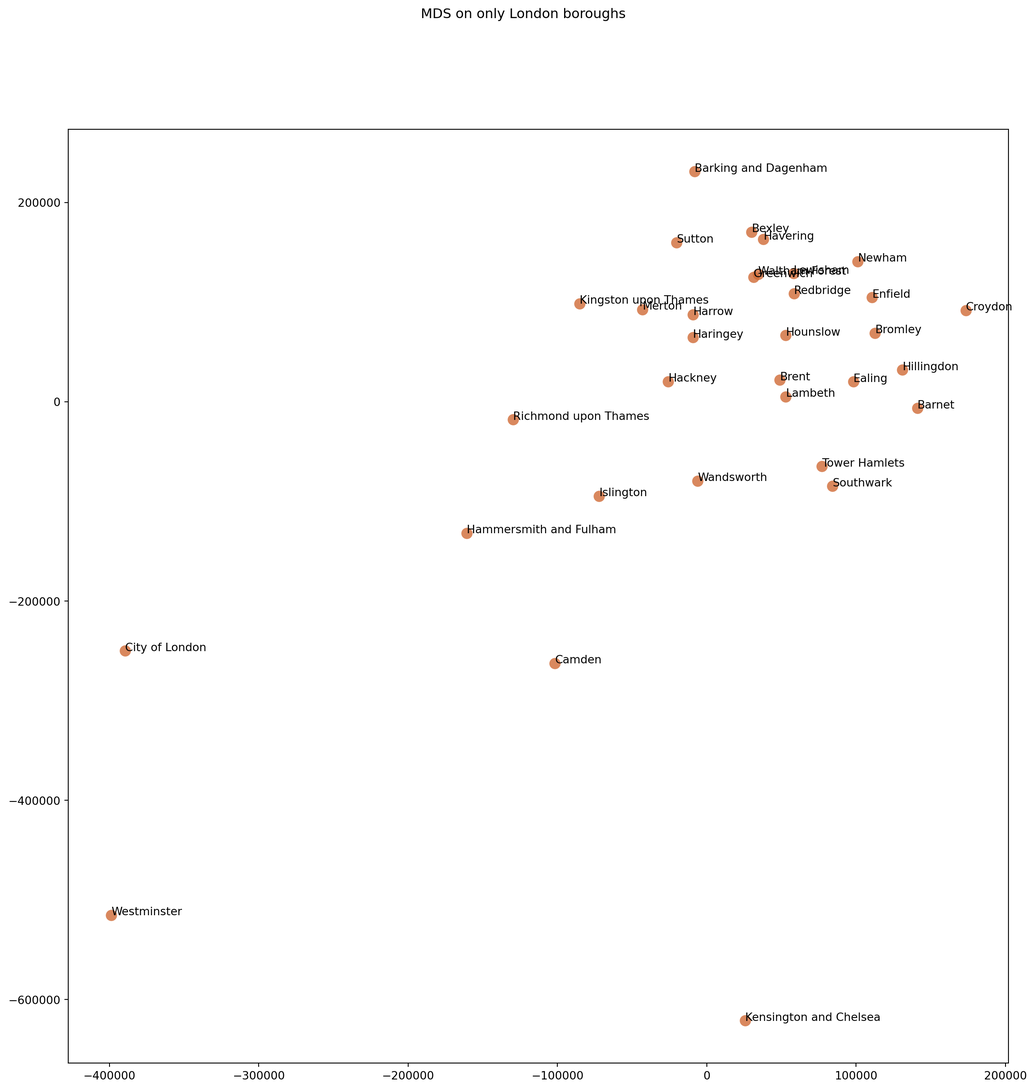
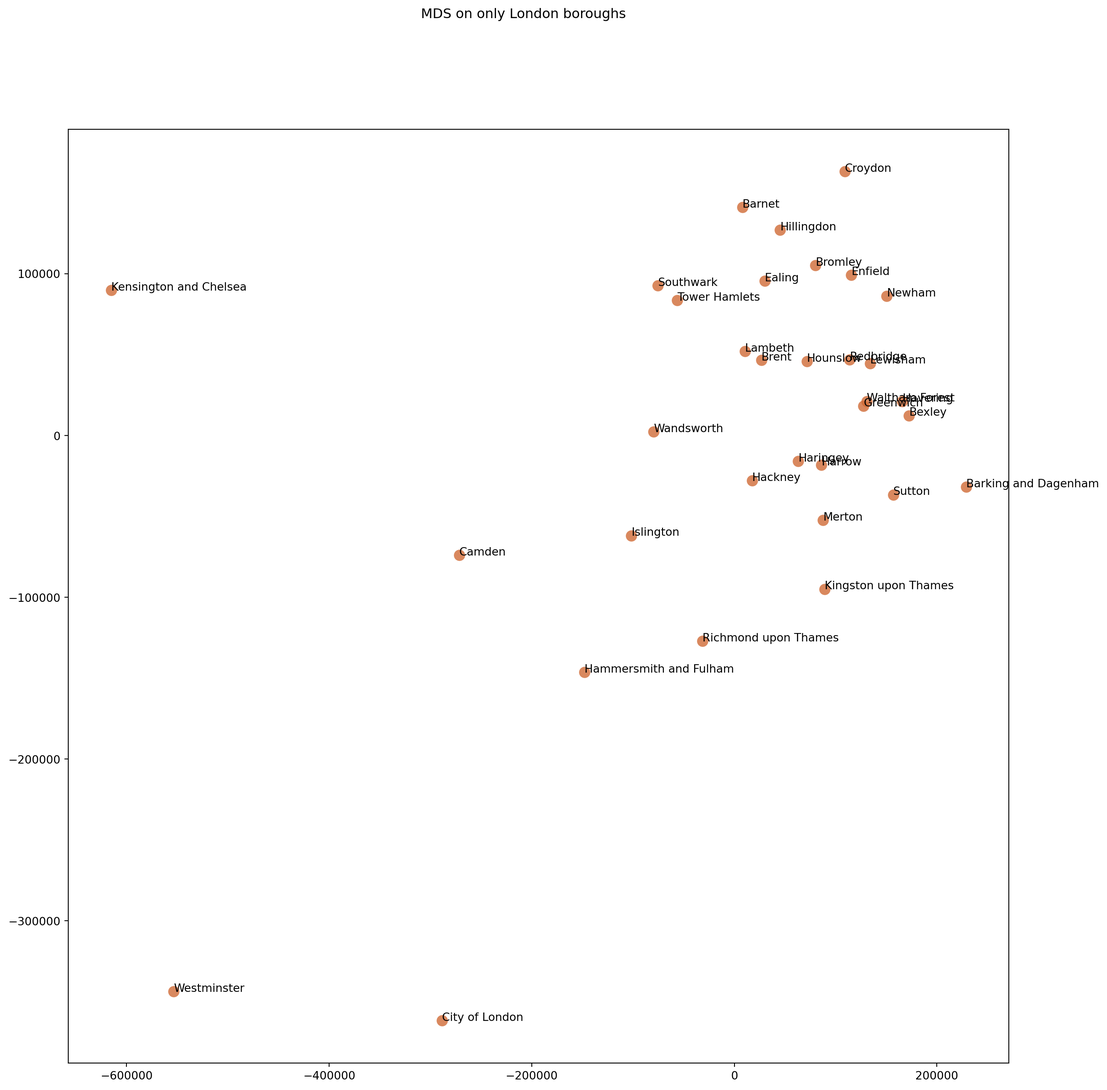
Built site for gh-pages

diff --git a/content/labs/Lab_5/IM939_Lab_5_1.html b/content/labs/Lab_5/IM939_Lab_5_1.html
@@ -54,7 +54,26 @@ div.sourceCode
 @media screen {
 pre > code.sourceCode > span > a:first-child::before { text-decoration: underline; }
 }
-</style>
+/* CSS for citations */
+div.csl-bib-body { }
+div.csl-entry {
+  clear: both;
+}
+.hanging-indent div.csl-entry {
+  margin-left:2em;
+  text-indent:-2em;
+}
+div.csl-left-margin {
+  min-width:2em;
+  float:left;
+}
+div.csl-right-inline {
+  margin-left:2em;
+  padding-left:1em;
+}
+div.csl-indent {
+  margin-left: 2em;
+}</style>
 
 
 <script src="../../../site_libs/quarto-nav/quarto-nav.js"></script>
@@ -545,16 +564,13 @@ pre > code.sourceCode > span > a:first-child::before { text-decoration: underlin
     <h2 id="toc-title">Table of contents</h2>
    
   <ul>
-  <li><a href="#it-is-now-your-turn" id="toc-it-is-now-your-turn" class="nav-link active" data-scroll-target="#it-is-now-your-turn"><span class="header-section-number">22</span> It is now your turn!</a>
-  <ul class="collapse">
-  <li><a href="#first-task" id="toc-first-task" class="nav-link" data-scroll-target="#first-task"><span class="header-section-number">22.1</span> First task:</a></li>
-  <li><a href="#second-task" id="toc-second-task" class="nav-link" data-scroll-target="#second-task"><span class="header-section-number">22.2</span> Second task:</a></li>
-  </ul></li>
+  <li><a href="#data-exploration-and-wrangling" id="toc-data-exploration-and-wrangling" class="nav-link active" data-scroll-target="#data-exploration-and-wrangling"><span class="header-section-number">21.1</span> Data exploration and wrangling</a></li>
+  <li><a href="#dimension-reduction" id="toc-dimension-reduction" class="nav-link" data-scroll-target="#dimension-reduction"><span class="header-section-number">21.2</span> Dimension reduction</a></li>
   </ul>
 <div class="toc-actions"><div><i class="bi bi-github"></i></div><div class="action-links"><p><a href="https://github.dev/WarwickCIM/IM939_handbook/blob/main/content/labs/Lab_5/IM939_Lab_5_1.ipynb" class="toc-action">Edit this page</a></p><p><a href="https://github.com/WarwickCIM/IM939_handbook/issues/new" class="toc-action">Report an issue</a></p></div></div></nav>
     </div>
 <!-- main -->
-<main class="content" id="quarto-document-content">
+<main class="content page-columns page-full" id="quarto-document-content">
 
 <header id="title-block-header" class="quarto-title-block default">
 <div class="quarto-title">
@@ -574,14 +590,21 @@ pre > code.sourceCode > span > a:first-child::before { text-decoration: underlin
 </header>
 
 <p>In this notebook, we will look at the London Borough data that we already encountered when we worked with the London Borough profiles and the Borough Cards that we utilised in the session.</p>
-<p>You can have a look at the data through this online tool provided by GLA: https://data.london.gov.uk/london-area-profiles/</p>
+<p>You can have a look at the data through this online tool provided by GLA: <a href="https://data.london.gov.uk/london-area-profiles/" class="uri">https://data.london.gov.uk/london-area-profiles/</a></p>
 <p>However, unlike the data that we explored during the session, this data set has several features (i.e., columns or variables), 76 of them to be precise.</p>
-<p>What we would like to do in this notebook is to make use of a dimension reduction algorithm – Multidimensial Scaling – to help us create various different “spaces”. Each of these space will be a different way of “seeing this data” and if we adopt the language from Scott Page, they will have different “attentions”.</p>
+<p>What we would like to do in this notebook is to make use of a dimension reduction algorithm – Multidimensional Scaling – to help us create various different “spaces”. Each of these space will be a different way of “seeing this data” and if we adopt the language from Scott Page <span class="citation" data-cites="pageWhyManyModelThinkers2018">(<a href="../../references.html#ref-pageWhyManyModelThinkers2018" role="doc-biblioref">2018</a>)</span>, they will have different “attentions”.</p>
 <p>What the following exercise will do is to walk you through the variables of this data set through a few visualisations. It will then create a few different projections and will give them some names. What we expect you to do is to create your own projections and try to interpret them.</p>
 <p>If you want to be reminded of what MDS is, you can have a look at the slides from last week. In a super tiny nutshell, MDS tries to create a space where “real” distances in the data are preserved as much as possible while “projecting” the data elements on a lower dimensional space. For instance, the following is from the slide deck:</p>
-<p><img src="figs/mds.png" alt="An MDS plot of cities." style="width: 800px;"></p>
+<div class="quarto-figure quarto-figure-center">
+<figure class="figure">
+<p><img src="figs/mds.png" class="img-fluid figure-img" width="800"></p>
+<figcaption class="figure-caption">An MDS plot of cities.</figcaption>
+</figure>
+</div>
 <p>What we see here are a few cities that would normally “exist” in our 3-dimensional world and the distances between them would normally be on this spherical coordinate system. But we create here is a 2D map and the distances between cities are preserved as much as possible. Near cities in the world are closer, and the further ones are further but not as accurate as it is in the world. The dimensions here carry no real meaning it is the distances that will “tell a story” (if there is one).</p>
 <p>OK, let’s get on with the data now.</p>
+<section id="data-exploration-and-wrangling" class="level2 page-columns page-full" data-number="21.1">
+<h2 data-number="21.1" class="anchored" data-anchor-id="data-exploration-and-wrangling"><span class="header-section-number">21.1</span> Data exploration and wrangling</h2>
 <div class="cell" data-execution_count="1">
 <div class="sourceCode cell-code" id="cb1"><pre class="sourceCode python code-with-copy"><code class="sourceCode python"><span id="cb1-1"><a href="#cb1-1" aria-hidden="true" tabindex="-1"></a><span class="im">import</span> warnings</span>
 <span id="cb1-2"><a href="#cb1-2" aria-hidden="true" tabindex="-1"></a>warnings.filterwarnings(<span class="st">'ignore'</span>)</span>
@@ -590,7 +613,7 @@ pre > code.sourceCode > span > a:first-child::before { text-decoration: underlin
 <span id="cb1-5"><a href="#cb1-5" aria-hidden="true" tabindex="-1"></a></span>
 <span id="cb1-6"><a href="#cb1-6" aria-hidden="true" tabindex="-1"></a>df <span class="op">=</span> pd.read_excel(<span class="st">'data/london-borough-profilesV3.xlsx'</span>, engine <span class="op">=</span> <span class="st">'openpyxl'</span>)</span>
 <span id="cb1-7"><a href="#cb1-7" aria-hidden="true" tabindex="-1"></a>df.columns</span></code><button title="Copy to Clipboard" class="code-copy-button"><i class="bi"></i></button></pre></div>
-<div class="cell-output cell-output-display" data-execution_count="1">
+<div class="cell-output cell-output-display" data-execution_count="71">
 <pre><code>Index(['Code', 'Area/INDICATOR', 'Inner/ Outer London',
        'GLA Population Estimate 2013', 'GLA Household Estimate 2013',
        'Inland Area (Hectares)', 'Population density (per hectare) 2013',
@@ -658,7 +681,7 @@ pre > code.sourceCode > span > a:first-child::before { text-decoration: underlin
 </div>
 <div class="cell" data-execution_count="2">
 <div class="sourceCode cell-code" id="cb3"><pre class="sourceCode python code-with-copy"><code class="sourceCode python"><span id="cb3-1"><a href="#cb3-1" aria-hidden="true" tabindex="-1"></a>df.head()</span></code><button title="Copy to Clipboard" class="code-copy-button"><i class="bi"></i></button></pre></div>
-<div class="cell-output cell-output-display" data-execution_count="2">
+<div class="cell-output cell-output-display" data-execution_count="72">
 <div>
 
 
@@ -817,7 +840,7 @@ pre > code.sourceCode > span > a:first-child::before { text-decoration: underlin
 </div>
 </div>
 </div>
-<p>Lots of different features. We also have really odd NaN values such as x and not available. We can try and get rid of this.</p>
+<p>Lots of different features. We also have really odd <code>NaN</code> values such as <code>x</code> and <code>not available</code>. We can try and get rid of this.</p>
 <div class="cell" data-execution_count="3">
 <div class="sourceCode cell-code" id="cb4"><pre class="sourceCode python code-with-copy"><code class="sourceCode python"><span id="cb4-1"><a href="#cb4-1" aria-hidden="true" tabindex="-1"></a><span class="kw">def</span> isnumber(x):</span>
 <span id="cb4-2"><a href="#cb4-2" aria-hidden="true" tabindex="-1"></a>    <span class="cf">try</span>:</span>
@@ -832,7 +855,7 @@ pre > code.sourceCode > span > a:first-child::before { text-decoration: underlin
 <span id="cb4-11"><a href="#cb4-11" aria-hidden="true" tabindex="-1"></a><span class="co"># apply isnumber function to every element</span></span>
 <span id="cb4-12"><a href="#cb4-12" aria-hidden="true" tabindex="-1"></a>df <span class="op">=</span> df[df.applymap(isnumber)]</span>
 <span id="cb4-13"><a href="#cb4-13" aria-hidden="true" tabindex="-1"></a>df.head()</span></code><button title="Copy to Clipboard" class="code-copy-button"><i class="bi"></i></button></pre></div>
-<div class="cell-output cell-output-display" data-execution_count="3">
+<div class="cell-output cell-output-display" data-execution_count="73">
 <div>
 
 
@@ -992,7 +1015,7 @@ pre > code.sourceCode > span > a:first-child::before { text-decoration: underlin
 </div>
 </div>
 <p>That looks much cleaner.</p>
-<p>Replace the NaN values in numeric columns with the mean.</p>
+<p>Replace the <code>NaN</code> values in numeric columns with the mean.</p>
 <div class="cell" data-execution_count="4">
 <div class="sourceCode cell-code" id="cb5"><pre class="sourceCode python code-with-copy"><code class="sourceCode python"><span id="cb5-1"><a href="#cb5-1" aria-hidden="true" tabindex="-1"></a><span class="co"># get only numeric columns</span></span>
 <span id="cb5-2"><a href="#cb5-2" aria-hidden="true" tabindex="-1"></a>numericColumns <span class="op">=</span> df._get_numeric_data()</span></code><button title="Copy to Clipboard" class="code-copy-button"><i class="bi"></i></button></pre></div>
@@ -1018,7 +1041,7 @@ pre > code.sourceCode > span > a:first-child::before { text-decoration: underlin
 <p>Check to make sure everything looks ok.</p>
 <div class="cell" data-execution_count="6">
 <div class="sourceCode cell-code" id="cb7"><pre class="sourceCode python code-with-copy"><code class="sourceCode python"><span id="cb7-1"><a href="#cb7-1" aria-hidden="true" tabindex="-1"></a>numericColumns.head()</span></code><button title="Copy to Clipboard" class="code-copy-button"><i class="bi"></i></button></pre></div>
-<div class="cell-output cell-output-display" data-execution_count="6">
+<div class="cell-output cell-output-display" data-execution_count="76">
 <div>
 
 
@@ -1184,7 +1207,12 @@ pre > code.sourceCode > span > a:first-child::before { text-decoration: underlin
 <span id="cb8-3"><a href="#cb8-3" aria-hidden="true" tabindex="-1"></a><span class="co">#sns_plot.savefig("figs/output.png")</span></span></code><button title="Copy to Clipboard" class="code-copy-button"><i class="bi"></i></button></pre></div>
 </div>
 <p>Given that this takes quite a while (around 10 minutes), this is the image that would result from uncommenting and running the code above.</p>
+<div class="column-page">
 <p><img src="figs/output.png" class="img-fluid"></p>
+</div>
+</section>
+<section id="dimension-reduction" class="level2 page-columns page-full" data-number="21.2">
+<h2 data-number="21.2" class="anchored" data-anchor-id="dimension-reduction"><span class="header-section-number">21.2</span> Dimension reduction</h2>
 <p>Dimension reduction will help us here!</p>
 <p>We could apply various different types of dimension reduction here. We are specifically going to capture the dissimilarity in the data using <a href="https://scikit-learn.org/stable/modules/manifold.html#multidimensional-scaling">multidimensional scaling</a>. Our distance matrix will come in useful here.</p>
 <div class="cell" data-execution_count="8">
@@ -1197,7 +1225,7 @@ pre > code.sourceCode > span > a:first-child::before { text-decoration: underlin
 <span id="cb9-7"><a href="#cb9-7" aria-hidden="true" tabindex="-1"></a>Y <span class="op">=</span> mds.fit_transform(distMatrix)</span></code><button title="Copy to Clipboard" class="code-copy-button"><i class="bi"></i></button></pre></div>
 </div>
 <p>To interpret what is happening, let us plot the boroughs on the projected two dimensional space.</p>
-<div class="cell" data-execution_count="9">
+<div class="cell page-columns page-full" data-execution_count="9">
 <div class="sourceCode cell-code" id="cb10"><pre class="sourceCode python code-with-copy"><code class="sourceCode python"><span id="cb10-1"><a href="#cb10-1" aria-hidden="true" tabindex="-1"></a><span class="im">from</span> matplotlib <span class="im">import</span> pyplot <span class="im">as</span> plt</span>
 <span id="cb10-2"><a href="#cb10-2" aria-hidden="true" tabindex="-1"></a></span>
 <span id="cb10-3"><a href="#cb10-3" aria-hidden="true" tabindex="-1"></a>fig, ax <span class="op">=</span> plt.subplots()</span>
@@ -1207,12 +1235,12 @@ pre > code.sourceCode > span > a:first-child::before { text-decoration: underlin
 <span id="cb10-7"><a href="#cb10-7" aria-hidden="true" tabindex="-1"></a></span>
 <span id="cb10-8"><a href="#cb10-8" aria-hidden="true" tabindex="-1"></a><span class="cf">for</span> i, txt <span class="kw">in</span> <span class="bu">enumerate</span>(placeNames):</span>
 <span id="cb10-9"><a href="#cb10-9" aria-hidden="true" tabindex="-1"></a>    ax.annotate(txt, (Y[:, <span class="dv">0</span>][i],Y[:, <span class="dv">1</span>][i]))</span></code><button title="Copy to Clipboard" class="code-copy-button"><i class="bi"></i></button></pre></div>
-<div class="cell-output cell-output-display">
-<p><img src="IM939_Lab_5_1_files/figure-html/cell-10-output-1.png" width="1229" height="1294"></p>
+<div class="cell-output cell-output-display column-page">
+<p><img src="IM939_Lab_5_1_files/figure-html/cell-10-output-1.png" width="1314" height="1294"></p>
 </div>
 </div>
 <p>Our data also include happiness metrics. Pulling these out of our data and carrying out more multidimensional scaling can help us see how the boroughs differ in happiness.</p>
-<div class="cell" data-execution_count="10">
+<div class="cell page-columns page-full" data-execution_count="10">
 <div class="sourceCode cell-code" id="cb11"><pre class="sourceCode python code-with-copy"><code class="sourceCode python"><span id="cb11-1"><a href="#cb11-1" aria-hidden="true" tabindex="-1"></a><span class="co"># get the data columns relating to emotions and feelings</span></span>
 <span id="cb11-2"><a href="#cb11-2" aria-hidden="true" tabindex="-1"></a>dataOnEmotions <span class="op">=</span> numericColumns[[<span class="st">"Life satisfaction score 2012-13 (out of 10)"</span>, <span class="st">"Worthwhileness score 2012-13 (out of 10)"</span>,<span class="st">"Happiness score 2012-13 (out of 10)"</span>]]</span>
 <span id="cb11-3"><a href="#cb11-3" aria-hidden="true" tabindex="-1"></a></span>
@@ -1230,8 +1258,8 @@ pre > code.sourceCode > span > a:first-child::before { text-decoration: underlin
 <span id="cb11-15"><a href="#cb11-15" aria-hidden="true" tabindex="-1"></a></span>
 <span id="cb11-16"><a href="#cb11-16" aria-hidden="true" tabindex="-1"></a><span class="cf">for</span> i, txt <span class="kw">in</span> <span class="bu">enumerate</span>(placeNames):</span>
 <span id="cb11-17"><a href="#cb11-17" aria-hidden="true" tabindex="-1"></a>    ax.annotate(txt, (Y2[:, <span class="dv">0</span>][i],Y2[:, <span class="dv">1</span>][i]))</span></code><button title="Copy to Clipboard" class="code-copy-button"><i class="bi"></i></button></pre></div>
-<div class="cell-output cell-output-display">
-<p><img src="IM939_Lab_5_1_files/figure-html/cell-11-output-1.png" width="1223" height="1294"></p>
+<div class="cell-output cell-output-display column-page">
+<p><img src="IM939_Lab_5_1_files/figure-html/cell-11-output-1.png" width="1287" height="1294"></p>
 </div>
 </div>
 <p>The location of the different boroughs on the 2 dimensional multidimensional scaling space from the happiness metrics is</p>
@@ -1239,39 +1267,39 @@ pre > code.sourceCode > span > a:first-child::before { text-decoration: underlin
 <div class="sourceCode cell-code" id="cb12"><pre class="sourceCode python code-with-copy"><code class="sourceCode python"><span id="cb12-1"><a href="#cb12-1" aria-hidden="true" tabindex="-1"></a>results_fixed <span class="op">=</span> Y2.copy()</span>
 <span id="cb12-2"><a href="#cb12-2" aria-hidden="true" tabindex="-1"></a><span class="bu">print</span>(results_fixed)</span></code><button title="Copy to Clipboard" class="code-copy-button"><i class="bi"></i></button></pre></div>
 <div class="cell-output cell-output-stdout">
-<pre><code>[[ 0.69748015 -0.81185707]
- [ 0.10899922  0.30108097]
- [ 0.136424   -0.16806795]
- [ 0.14093651 -0.21554052]
- [-0.1955195   0.22624968]
- [ 0.11407816 -0.43327937]
- [-0.15588862  0.17993318]
- [-0.002926    0.30743178]
- [-0.24032095 -0.1095705 ]
- [-0.19206059 -0.11253457]
- [-0.00332174  0.21289684]
- [-0.05208774  0.31915627]
- [ 0.17067002  0.20747103]
- [-0.08759646  0.15876571]
- [-0.11614813 -0.12219902]
- [ 0.04170797 -0.13784647]
- [-0.0391623  -0.15857883]
- [-0.03689777 -0.07960966]
- [-0.17214418  0.5249188 ]
- [ 0.27412767 -0.53867284]
- [-0.11080249  0.07685239]
- [-0.05270751  0.3549546 ]
- [ 0.1381328   0.02876136]
- [-0.00367913  0.12615481]
- [-0.13965941 -0.0227915 ]
- [-0.19901919 -0.03232374]
- [ 0.01668134 -0.22351004]
- [ 0.07414358 -0.02966198]
- [ 0.02302576  0.07491519]
- [-0.08739731 -0.07324658]
- [ 0.09066387 -0.06756996]
- [-0.07999907 -0.01517745]
- [-0.05973298  0.25249544]]</code></pre>
+<pre><code>[[ 0.26955023 -1.03193546]
+ [-0.30697124  0.04988649]
+ [ 0.11267823 -0.18603719]
+ [ 0.09951239 -0.23709264]
+ [-0.11233607  0.27677033]
+ [ 0.31687906 -0.31587447]
+ [-0.08799261  0.21880538]
+ [-0.20905701  0.24461554]
+ [ 0.21012164  0.17125381]
+ [ 0.19306487  0.13163987]
+ [-0.18659     0.0989468 ]
+ [-0.2618981   0.18342251]
+ [-0.2551384  -0.05507685]
+ [-0.10018359  0.14805073]
+ [ 0.16711463  0.05098098]
+ [ 0.10854867 -0.09812561]
+ [ 0.16605853 -0.03341054]
+ [ 0.09654886  0.00279667]
+ [-0.49153577  0.23630239]
+ [ 0.4181435  -0.44518512]
+ [-0.01774271  0.12920108]
+ [-0.29575096  0.19446001]
+ [-0.07852039 -0.10487395]
+ [-0.10459205  0.06451135]
+ [ 0.09001571  0.12021746]
+ [ 0.12164733  0.16641986]
+ [ 0.19424041 -0.11717992]
+ [ 0.00238345 -0.07364946]
+ [-0.07160448  0.01590297]
+ [ 0.11278589  0.05034198]
+ [ 0.03510502 -0.10010882]
+ [ 0.05868884  0.07204286]
+ [-0.19317386  0.17198096]]</code></pre>
 </div>
 </div>
 <p>We may want to look at if the general happiness rating captures the position of the boroughs. To do this we need to assign colours based on the binned happiness score.</p>
@@ -1287,7 +1315,7 @@ pre > code.sourceCode > span > a:first-child::before { text-decoration: underlin
 <div class="cell-output cell-output-stdout">
 <pre><code>(33, 2)</code></pre>
 </div>
-<div class="cell-output cell-output-display" data-execution_count="12">
+<div class="cell-output cell-output-display" data-execution_count="82">
 <pre><code>array([ 0.81636364, -0.22363636,  0.06636364,  0.18636364, -0.05363636,
         0.34636364, -0.06363636, -0.28363636, -0.04363636, -0.10363636,
        -0.12363636, -0.21363636, -0.05363636, -0.08363636,  0.05636364,
@@ -1298,7 +1326,7 @@ pre > code.sourceCode > span > a:first-child::before { text-decoration: underlin
 </div>
 </div>
 <p>Finally, we can plot this. What can you see?</p>
-<div class="cell" data-execution_count="13">
+<div class="cell page-columns page-full" data-execution_count="13">
 <div class="sourceCode cell-code" id="cb17"><pre class="sourceCode python code-with-copy"><code class="sourceCode python"><span id="cb17-1"><a href="#cb17-1" aria-hidden="true" tabindex="-1"></a><span class="co"># let's look at the results</span></span>
 <span id="cb17-2"><a href="#cb17-2" aria-hidden="true" tabindex="-1"></a>fig, ax <span class="op">=</span> plt.subplots()</span>
 <span id="cb17-3"><a href="#cb17-3" aria-hidden="true" tabindex="-1"></a>fig.set_size_inches(<span class="dv">15</span>, <span class="dv">15</span>)</span>
@@ -1308,11 +1336,11 @@ pre > code.sourceCode > span > a:first-child::before { text-decoration: underlin
 <span id="cb17-7"><a href="#cb17-7" aria-hidden="true" tabindex="-1"></a></span>
 <span id="cb17-8"><a href="#cb17-8" aria-hidden="true" tabindex="-1"></a><span class="cf">for</span> i, txt <span class="kw">in</span> <span class="bu">enumerate</span>(placeNames):</span>
 <span id="cb17-9"><a href="#cb17-9" aria-hidden="true" tabindex="-1"></a>    ax.annotate(txt, (results_fixed[:, <span class="dv">0</span>][i],results_fixed[:, <span class="dv">1</span>][i]))</span></code><button title="Copy to Clipboard" class="code-copy-button"><i class="bi"></i></button></pre></div>
-<div class="cell-output cell-output-display">
-<p><img src="IM939_Lab_5_1_files/figure-html/cell-14-output-1.png" width="1223" height="1294"></p>
+<div class="cell-output cell-output-display column-page">
+<p><img src="IM939_Lab_5_1_files/figure-html/cell-14-output-1.png" width="1287" height="1294"></p>
 </div>
 </div>
-<div class="cell" data-execution_count="14">
+<div class="cell page-columns page-full" data-execution_count="14">
 <div class="sourceCode cell-code" id="cb18"><pre class="sourceCode python code-with-copy"><code class="sourceCode python"><span id="cb18-1"><a href="#cb18-1" aria-hidden="true" tabindex="-1"></a><span class="co"># get the data columns relating to emotions and feelings</span></span>
 <span id="cb18-2"><a href="#cb18-2" aria-hidden="true" tabindex="-1"></a>dataOnDiversity <span class="op">=</span> numericColumns[[<span class="st">"Proportion of population aged 0-15, 2013"</span>, <span class="st">"Proportion of population of working-age, 2013"</span>, <span class="st">"Proportion of population aged 65 and over, 2013"</span>, <span class="st">"</span><span class="sc">% o</span><span class="st">f population from BAME groups (2013)"</span>, <span class="st">"% people aged 3+ whose main language is not English (2011 census)"</span>]]</span>
 <span id="cb18-3"><a href="#cb18-3" aria-hidden="true" tabindex="-1"></a></span>
@@ -1330,24 +1358,38 @@ pre > code.sourceCode > span > a:first-child::before { text-decoration: underlin
 <span id="cb18-15"><a href="#cb18-15" aria-hidden="true" tabindex="-1"></a></span>
 <span id="cb18-16"><a href="#cb18-16" aria-hidden="true" tabindex="-1"></a><span class="cf">for</span> i, txt <span class="kw">in</span> <span class="bu">enumerate</span>(placeNames):</span>
 <span id="cb18-17"><a href="#cb18-17" aria-hidden="true" tabindex="-1"></a>    ax.annotate(txt, (Y[:, <span class="dv">0</span>][i],Y[:, <span class="dv">1</span>][i]))</span></code><button title="Copy to Clipboard" class="code-copy-button"><i class="bi"></i></button></pre></div>
-<div class="cell-output cell-output-display">
-<p><img src="IM939_Lab_5_1_files/figure-html/cell-15-output-1.png" width="1181" height="1294"></p>
+<div class="cell-output cell-output-display column-page">
+<p><img src="IM939_Lab_5_1_files/figure-html/cell-15-output-1.png" width="1200" height="1294"></p>
 </div>
 </div>
-<p>::: callout-note</p>
-<section id="it-is-now-your-turn" class="level1" data-number="22">
-<h1 data-number="22"><span class="header-section-number">22</span> It is now your turn!</h1>
-<section id="first-task" class="level2" data-number="22.1">
-<h2 data-number="22.1" class="anchored" data-anchor-id="first-task"><span class="header-section-number">22.1</span> First task:</h2>
+<div class="callout callout-style-default callout-caution callout-titled">
+<div class="callout-header d-flex align-content-center">
+<div class="callout-icon-container">
+<i class="callout-icon"></i>
+</div>
+<div class="callout-title-container flex-fill">
+It is now your turn!
+</div>
+</div>
+<div class="callout-body-container callout-body">
+<section id="first-task" class="level3" data-number="21.2.1">
+<h3 data-number="21.2.1" class="anchored" data-anchor-id="first-task"><span class="header-section-number">21.2.1</span> First task:</h3>
 <p>This looks very different to the one above on “emotion” related variables. Our job now is to relate these two projections to one another. Do you see similarities? Do you see clusters of boroughs? Can you reflect on how you can relate and combine these two maps conceptually?</p>
 </section>
-<section id="second-task" class="level2" data-number="22.2">
-<h2 data-number="22.2" class="anchored" data-anchor-id="second-task"><span class="header-section-number">22.2</span> Second task:</h2>
+<section id="second-task" class="level3" data-number="21.2.2">
+<h3 data-number="21.2.2" class="anchored" data-anchor-id="second-task"><span class="header-section-number">21.2.2</span> Second task:</h3>
 <p>Can you think of and then generate other maps that you can produce with this data? Have a look at the variables once again and try to produce new “perspectives” to the data and see what they have to say.</p>
 <p>Also think of visualisations to help you here, can you colour them with a different variable? What would that change?</p>
-
-
 </section>
+</div>
+</div>
+
+
+<div id="refs" class="references csl-bib-body hanging-indent" role="list" style="display: none">
+<div id="ref-pageWhyManyModelThinkers2018" class="csl-entry" role="listitem">
+Page, Scott E. 2018. <span>“Why <span>‘<span>Many-Model Thinkers</span>’</span> <span>Make Better Decisions</span>.”</span> <em>Harvard Business Review</em>, November. <a href="https://hbr.org/2018/11/why-many-model-thinkers-make-better-decisions">https://hbr.org/2018/11/why-many-model-thinkers-make-better-decisions</a>.
+</div>
+</div>
 </section>
 
 </main> <!-- /main -->

diff --git a/content/references.html b/content/references.html
@@ -571,6 +571,11 @@ Publishing. <a href="https://doi.org/10.1007/978-3-319-50017-1_6">https://doi.or
 Knuth, Donald E. 1984. <span>“Literate Programming.”</span> <em>Comput.
 J.</em> 27 (2): 97–111. <a href="https://doi.org/10.1093/comjnl/27.2.97">https://doi.org/10.1093/comjnl/27.2.97</a>.
 </div>
+<div id="ref-pageWhyManyModelThinkers2018" class="csl-entry" role="listitem">
+Page, Scott E. 2018. <span>“Why <span>‘<span>Many-Model
+Thinkers</span>’</span> <span>Make Better Decisions</span>.”</span>
+<em>Harvard Business Review</em>, November. <a href="https://hbr.org/2018/11/why-many-model-thinkers-make-better-decisions">https://hbr.org/2018/11/why-many-model-thinkers-make-better-decisions</a>.
+</div>
 <div id="ref-misc_communities_and_crime_183" class="csl-entry" role="listitem">
 Redmond, Michael. 2009. <span>“<span class="nocase">Communities and
 Crime</span>.”</span> UCI Machine Learning Repository. <a href="https://doi.org/10.24432/C53W3X">https://doi.org/10.24432/C53W3X</a>.
